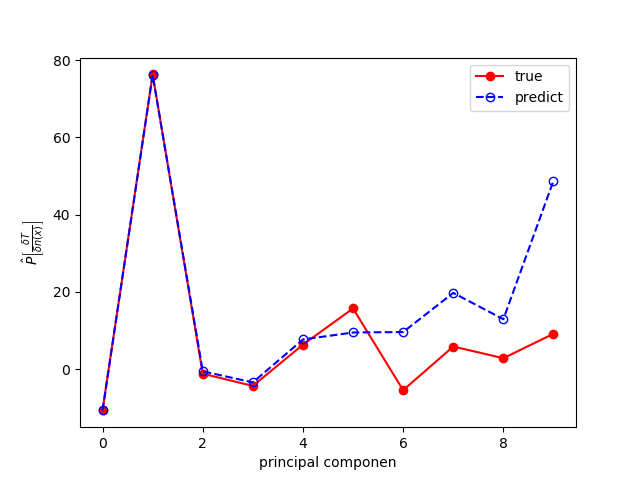
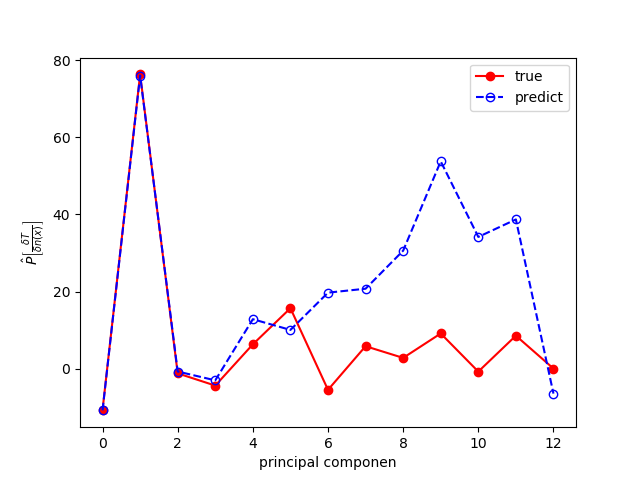
fix bug, check consistency

diff --git a/template/main/gradient_error.py b/template/main/gradient_error.py
@@ -1,0 +1,54 @@
+# plot gradient prediction error
+
+import pickle
+import numpy as np 
+import matplotlib.pyplot as plt 
+from matplotlib.ticker import MultipleLocator 
+from matplotlib.gridspec import GridSpec
+
+from statslib.pca import PrincipalComponentAnalysis
+from statslib.kernel_ridge import KernelRidge
+from statslib.pipeline import MyPipe
+from statslib.utils import rbf_kernel, rbf_kernel_gradient
+
+with open('../results/demo_train_data', 'rb') as f:
+    train_data = pickle.load(f)
+with open('../results/demo_test_data', 'rb') as f1:
+    test_data = pickle.load(f1)
+Ek_train, densx_train, dEkx_train = train_data[:, 0], train_data[:, 1:503], train_data[:, 503:]
+Ek_test, densx_test, dEkx_test = test_data[:, 0], test_data[:, 1:503], test_data[:, 503:]
+
+pca = PrincipalComponentAnalysis()
+C, gamma = 1.09854114e-10, 0.0009102982
+krr = KernelRidge(C=C, gamma=gamma, kernel=rbf_kernel, kernel_gd=rbf_kernel_gradient)
+pipe = MyPipe([('reduce_dim', pca), ('regressor', krr)])
+
+Error = []
+for i in range(20):
+    pipe.set_params(reduce_dim__n_components=i+1)
+    pipe.fit(densx_train, Ek_train)
+    dEkxt_predict = pipe.predict_gradient(densx_test)
+    dEkx_predict = pipe.named_steps['reduce_dim'].inverse_transform_gradient(dEkxt_predict)
+    Error.append(np.mean(np.mean((dEkx_predict-dEkx_test)**2, axis=1)))
+
+fig = plt.figure(figsize=(10, 4))
+gd = GridSpec(1, 2, fig)
+ax = fig.add_subplot(gd[0])
+ax.plot(np.arange(1, 21, 1), Error, 'bo-')
+ax.set_xlabel('# principal component')
+ax.xaxis.set_major_locator(MultipleLocator())
+ax.set_ylabel('mean square error')
+
+ax2 = fig.add_subplot(gd[1])
+X = np.linspace(0, 1, 502)
+for i in [1, 4, 7, 10, 13]:
+    pipe.set_params(reduce_dim__n_components=i)
+    pipe.fit(densx_train, Ek_train)
+    dEkxt_predict = pipe.predict_gradient(densx_test[0][np.newaxis, :])
+    dEkx_predict = pipe.named_steps['reduce_dim'].inverse_transform_gradient(dEkxt_predict)
+    ax2.plot(X, dEkx_predict[0], linestyle='--', alpha=(1-0.05*i), label='#%d' %(i))
+ax2.plot(X, dEkx_test[0], 'r', label='true')
+ax2.set_xlabel('x')
+ax2.set_ylabel(r'$\hat{P}\left[\frac{\delta T}{\delta n(x)}\right]$')
+ax2.legend()
+plt.savefig('../results/gradient_error.png')

diff --git a/template/main/CV_pca_tool.py b/template/main/CV_pca_tool.py
@@ -17,7 +17,7 @@ with open('../results/demo_Vx', 'rb') as f1:
 densx, Ek, dEkx = data[:, 2:], data[:, 1], -potential[:, 1:]
 densx_train, densx_test, Ek_train, Ek_test, dEkx_train, dEkx_test = train_test_split(densx, Ek, dEkx, test_size=0.4, random_state=R)
 
-pca = PrincipalComponentAnalysis(10)
+pca = PrincipalComponentAnalysis(13)
 C, gamma = 1.09854114e-10, 0.0009102982
 # C, gamma = 1e-8, 1e-2
 krr = KernelRidge(C=C, gamma=gamma, kernel=rbf_kernel, kernel_gd=rbf_kernel_gradient)
@@ -27,8 +27,8 @@ pipe.fit(densx_train, Ek_train, dEkx_train)
 dEkxt_predict = pipe.predict_gradient(densx_test[0][np.newaxis, :])
 dEkxt_test = pipe.named_steps['reduce_dim'].transform_gradient(dEkx_test[0][np.newaxis, :])
 
-plt.plot(np.arange(0, 10, 1), dEkxt_test[0], 'ro-', label='true')
-plt.plot(np.arange(0, 10, 1), dEkxt_predict[0], 'bo--', label='predict', fillstyle='none')
+plt.plot(np.arange(0, 13, 1), dEkxt_test[0], 'ro-', label='true')
+plt.plot(np.arange(0, 13, 1), dEkxt_predict[0], 'bo--', label='predict', fillstyle='none')
 plt.xlabel('principal componen')
 plt.ylabel(r'$\hat{P}\left[\frac{\delta T}{\delta n(x)}\right]$')
 plt.legend()

diff --git a/test/test_quantum/test_solver.py b/test/test_quantum/test_solver.py
@@ -16,16 +16,18 @@ def params_gen(nbasis, V0):
     return hamilton_mat, Vq
 
 ## Thomas-Fermi test
+occ = 1
 hamilton_mat, Vq = params_gen(nbasis, 0)
-Ek_compute, densq, mu, En = solver(nk, nbasis, hamilton_mat, debug=True)
+Ek_compute, densq, mu, En = solver(nk, nbasis, hamilton_mat, occ, debug=True)
 assert densq[0].real == 1, print('electron number incorret')
-Ek_TF = (np.pi**2/6)*1**3
-assert abs(Ek_compute-Ek_TF) < 0.1, print('error in kinetic energy computation')
+Ek_TF = (np.pi**2/6)*(occ**3)
+assert abs(Ek_compute-Ek_TF) < 10.0/nk, print('error in kinetic energy computation')
 fig1 = plt.figure()
 ax1 = fig1.gca()
 k_points = np.linspace(0, np.pi, nk)
-for i in range(4):
+for i in range(3):
     ax1.plot(k_points, En.T[i], 'b')
+ax1.axhline(mu, 0, np.pi, color='r', linestyle='--')
 ax1.set_xlabel('k')
 ax1.set_ylabel('E(k)')
 plt.savefig('test/test_quantum/free_e_band.png')

diff --git a/quantum/solver.py b/quantum/solver.py
@@ -23,18 +23,15 @@ def solver(nk, nbasis, hamiton_mat, occ=1, debug=False):
         # compute mu
         if ki == 0:
             bottom = En_k[0]         # set the minimum of band energy to 0 !
-        if ki == (nk-1):
             top = En_k[0]
         # compute electron density
         # compute kinetic energy
         num_mat_eigspace = np.zeros((nbasis, nbasis))
-        num_mat_eigspace[0, 0] = 1
-        # for i in range(nbasis):
-        #     if (i+1) <= occ*nk:
-        #         num_mat_eigspace[i, i] = 1
-        #     else:
-        #         mu = En_k[i-1] - b
-        #         break
+        for i in range(occ):
+            num_mat_eigspace[i, i] = 1
+            if En_k[i] > top:
+                top = En_k[i]
+
         density_mat_kspace = Uq_k @ (num_mat_eigspace @ (Uq_k.T).conj())
 
         density_k = np.zeros(nbasis, dtype=np.complex64)

diff --git a/template/main/transform_matrix.py b/template/main/transform_matrix.py
@@ -1,0 +1,22 @@
+# plot the transformation matrix
+
+import numpy as np 
+import pickle
+import matplotlib.pyplot as plt 
+from mpl_toolkits.axes_grid1 import ImageGrid
+
+with open('../results/demo_best_estimator', 'rb') as f:
+    estimator = pickle.load(f)
+
+pca = estimator.named_steps['reduce_dim']
+trans_mat = pca.tr_mat_
+
+fig = plt.figure() 
+gs = ImageGrid(fig, 111, nrows_ncols=(2, 2), axes_pad=0.1, aspect=False)
+for i in range(4):
+    gs[i].plot(np.arange(0, 502, 1), trans_mat[:, i], 'b', label='#%d' %(i+1))
+    gs[i].legend()
+
+fig.text(0.5, 0.01, 'x points')
+fig.text(0.01, 0.5, 'matrix value', va='center', rotation='vertical')
+plt.savefig('../results/demo_transform_matrix.png')

diff --git a/statslib/scorer.py b/statslib/scorer.py
@@ -24,8 +24,6 @@ class _PredictScorer(_BaseScorer):
         y_pred = estimator.predict(X)
         dyt_pred = estimator.predict_gradient(X)
         dy_pred = estimator.named_steps['reduce_dim'].inverse_transform_gradient(dyt_pred)
-        dyt_true = estimator.named_steps['reduce_dim'].transform_gradient(dy_true)
-        dy_true = estimator.named_steps['reduce_dim'].inverse_transform_gradient(dyt_true)
         if sample_weight is not None:
             return self._sign * self._score_func(y_true, y_pred,
                                                  sample_weight=sample_weight,

diff --git a/template/main/database.py b/template/main/database.py
@@ -3,8 +3,9 @@
 import numpy as np
 from mpi4py import MPI
 import pickle
-from MLEK.main.utils import simple_potential_gen
-from MLEK.main.solver import solver
+
+from quantum.utils import simple_potential_gen
+from quantum.solver import solver
 
 NSAMPLES = 1000
 LOW_V0 = 5
